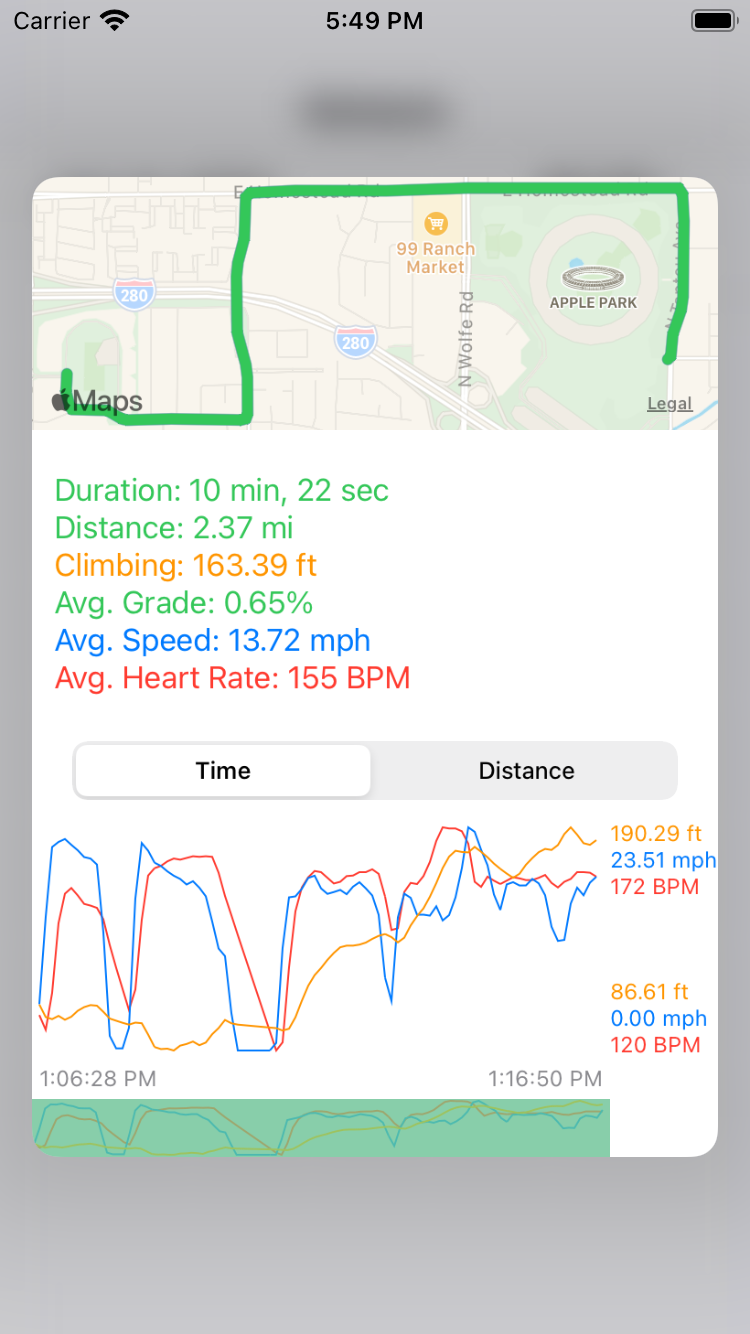
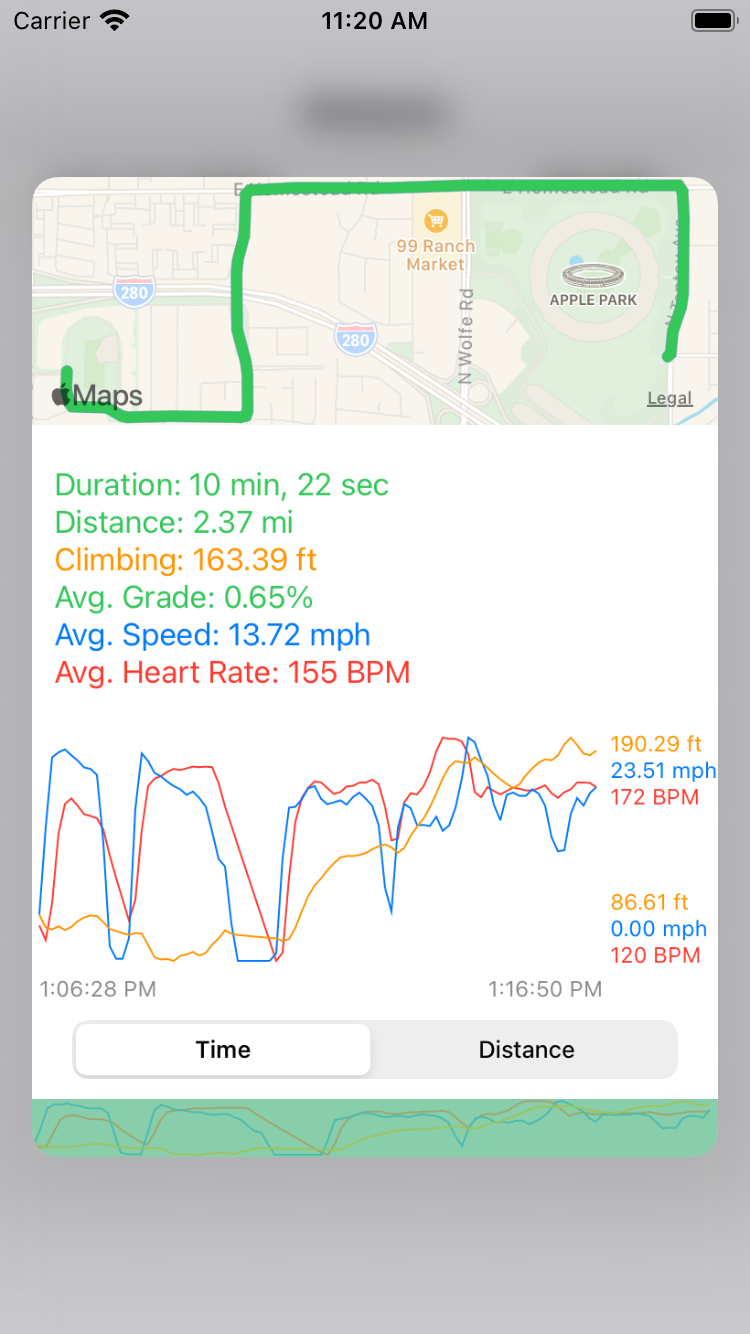
[WSViewController] Add line to connect graph points with stats view

diff --git a/WorkoutSpot/ViewControllers/WSViewController.m b/WorkoutSpot/ViewControllers/WSViewController.m
@@ -226,8 +226,7 @@ typedef NS_ENUM(NSUInteger, WSMapOverlayIndex) {
     NSUInteger clampIndex = MIN(MAX(validRange.location, pointIndex), NSRangeMaxIndex(validRange));
     
     CGPoint speedPointInGraph = [graphView.speedGraph pointForIndex:clampIndex];
-    CGPoint speedPointInView = [self.view convertPoint:speedPointInGraph fromView:graphView];
-    self.pointStatsEffectsCenter.constant = speedPointInView.x;
+    self.pointSlideLineCenter.constant = speedPointInGraph.x;
     
     self.pointStatsView.stats = pointStats;
 }
@@ -238,6 +237,7 @@ typedef NS_ENUM(NSUInteger, WSMapOverlayIndex) {
     __weak __typeof(self) weakself = self;
     [UIViewPropertyAnimator runningPropertyAnimatorWithDuration:0.125 delay:0 options:UIViewAnimationOptionBeginFromCurrentState animations:^{
         weakself.pointStatsEffectsView.alpha = showPointStats ? 1 : 0;
+        weakself.pointSlideLineView.alpha = showPointStats ? 1 : 0;
         weakself.segmentStatsView.alpha = showPointStats ? 0 : 1;
         if (weakself) {
             __strong __typeof(self) strongself = weakself;
@@ -266,12 +266,12 @@ typedef NS_ENUM(NSUInteger, WSMapOverlayIndex) {
     
     [self focusMapOnRoute];
     
-    // MKMapTypeStandard         (no imagery, no 3D, yes road names)
+    // MKMapTypeStandard         (no imagery, yes 3D, yes road names)
     // MKMapTypeSatellite        (real imagery, no 3D, no road names)
     // MKMapTypeHybrid           (real imagery, no 3D, no road names)
     // MKMapTypeSatelliteFlyover (composite imagery, yes 3D, no road names)
     // MKMapTypeHybridFlyover    (composite imagery, yes 3D, yes road names)
-    // MKMapTypeMutedStandard    (no imagery, yes road names, yes 3D)
+    // MKMapTypeMutedStandard    (no imagery, yes 3D, yes road names)
     
     // in both of the Flyovers, the polyline could be rendered
     //  inside the Earth if the camera was at a shallow angle

diff --git a/WorkoutSpot/ViewControllers/WSViewController.h b/WorkoutSpot/ViewControllers/WSViewController.h
@@ -35,11 +35,12 @@
 @property (strong, nonatomic) IBOutlet MKMapView *mapView;
 @property (strong, nonatomic) IBOutlet WSPointStatsView *pointStatsView;
 @property (strong, nonatomic) IBOutlet WSSegmentStatsView *segmentStatsView;
-@property (strong, nonatomic) IBOutlet UISegmentedControl *domainControl;
 
-@property (strong, nonatomic) IBOutlet NSLayoutConstraint *pointStatsEffectsCenter;
-@property (strong, nonatomic) IBOutlet UIView *pointStatsEffectsView;
 @property (nonatomic, getter=isShowingPointStats) BOOL showPointStats;
+@property (strong, nonatomic) IBOutlet UIView *pointStatsEffectsView;
+
+@property (strong, nonatomic) IBOutlet UIView *pointSlideLineView;
+@property (strong, nonatomic) IBOutlet NSLayoutConstraint *pointSlideLineCenter;
 
 @property (strong, nonatomic) IBOutlet WSGraphView *graphView;
 @property (strong, nonatomic) IBOutlet UIScrollView *graphScrollViewProxy;
@@ -50,6 +51,8 @@
 
 @property (strong, nonatomic) IBOutlet UILabel *leftDomainLabel;
 @property (strong, nonatomic) IBOutlet UILabel *rightDomainLabel;
+
+@property (strong, nonatomic) IBOutlet UISegmentedControl *domainControl;
 
 @property (strong, nonatomic) IBOutlet WSGraphView *graphPreview;
 @property (strong, nonatomic) IBOutlet UIView *previewSegmentView;
